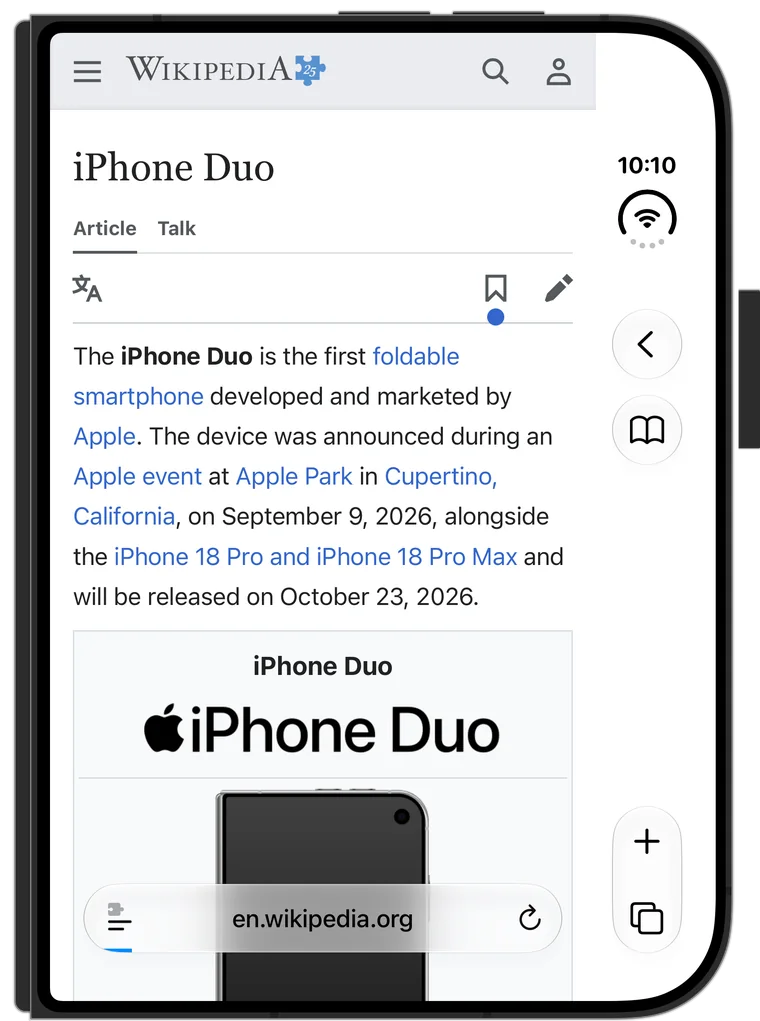
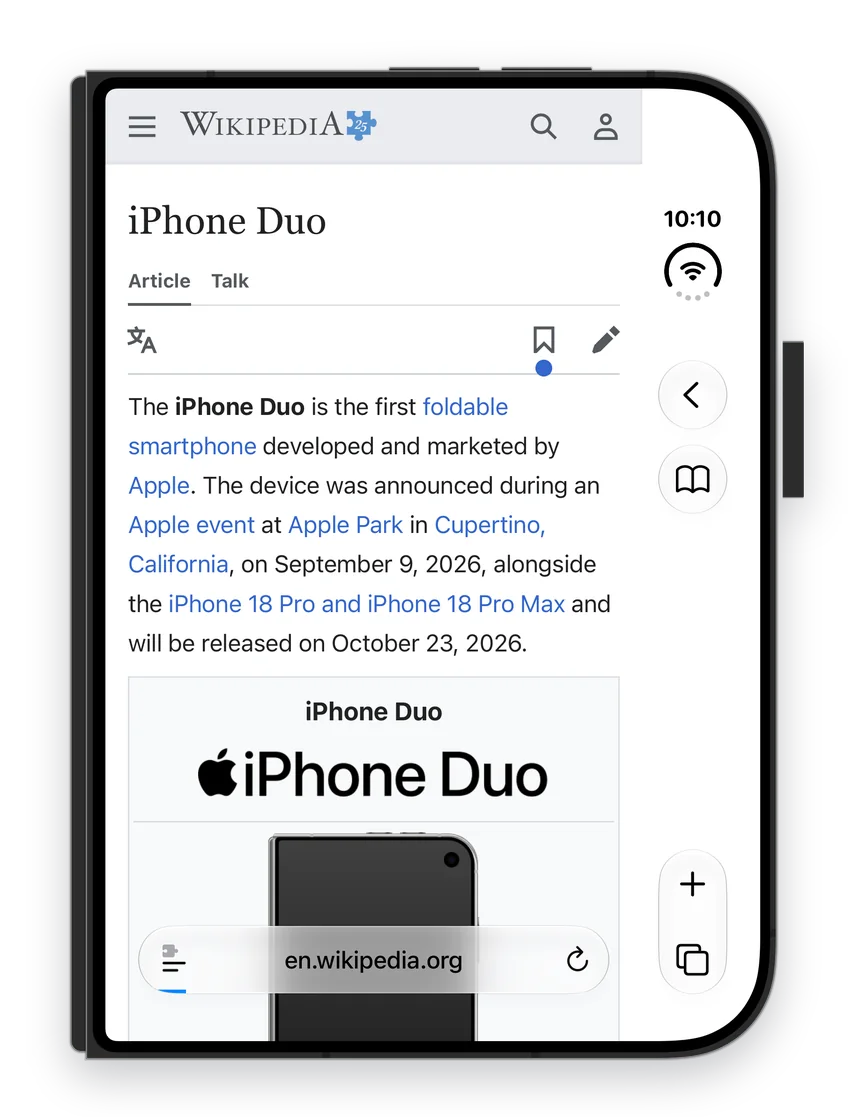
No grey box behind the phone (shadow baked into the images); setup steps by place: app, Settings, Safari; hero column can't overflow on phones

diff --git a/index.html b/index.html
@@ -9,7 +9,7 @@
 <meta name="theme-color" content="#10101c" media="(prefers-color-scheme: dark)">
 <link rel="icon" type="image/png" href="img/apple-touch-icon.png">
 <link rel="apple-touch-icon" href="img/apple-touch-icon.png">
-<link rel="stylesheet" href="style.css?v=b5582801">
+<link rel="stylesheet" href="style.css?v=6f3df7b0">
 </head>
 <body>
 <nav class="bar" aria-label="Widen">
@@ -48,8 +48,8 @@
       <div class="slides" tabindex="0" aria-label="Websites without and with Widen; swipe for more">
         <div class="slide" data-site="Wikipedia">
           <div class="flip-pics">
-            <img class="pic-before" src="img/before.webp" width="760" height="1021" alt="Wikipedia's iPhone Duo article in Safari on the closed Duo, without Widen: the page stops well short of Safari's buttons, leaving an empty band">
-            <img class="pic-after" src="img/after.webp" width="760" height="1021" alt="The same article with Widen in Pictures &amp; text mode: the article text and info box run the full width of the display">
+            <img class="pic-before" src="img/before.webp" width="860" height="1117" alt="Wikipedia's iPhone Duo article in Safari on the closed Duo, without Widen: the page stops well short of Safari's buttons, leaving an empty band">
+            <img class="pic-after" src="img/after.webp" width="860" height="1117" alt="The same article with Widen in Pictures &amp; text mode: the article text and info box run the full width of the display">
           </div>
           <p class="slide-cap"><b>Wikipedia</b>
             <span class="cap-before">The page stops short; the band by the buttons is empty.</span>
@@ -57,8 +57,8 @@
         </div>
         <div class="slide" data-site="The New York Times">
           <div class="flip-pics">
-            <img class="pic-before" src="img/nyt-before.webp" width="760" height="1021" loading="lazy" alt="An NYT article about the iPhone Duo on the closed Duo, without Widen: the lead photo stops short of Safari's buttons">
-            <img class="pic-after" src="img/nyt-after.webp" width="760" height="1021" loading="lazy" alt="The same article with Widen: the photo runs under Safari's buttons while the headline stays clear of them">
+            <img class="pic-before" src="img/nyt-before.webp" width="860" height="1117" loading="lazy" alt="An NYT article about the iPhone Duo on the closed Duo, without Widen: the lead photo stops short of Safari's buttons">
+            <img class="pic-after" src="img/nyt-after.webp" width="860" height="1117" loading="lazy" alt="The same article with Widen: the photo runs under Safari's buttons while the headline stays clear of them">
           </div>
           <p class="slide-cap"><b>The New York Times</b>
             <span class="cap-before">The photo stops short of the buttons.</span>
@@ -66,8 +66,8 @@
         </div>
         <div class="slide" data-site="Google Maps">
           <div class="flip-pics">
-            <img class="pic-before" src="img/maps-before.webp" width="760" height="1021" loading="lazy" alt="Google Maps satellite view of the Sydney Opera House on the closed Duo, without Widen: the map ends at Safari's buttons">
-            <img class="pic-after" src="img/maps-after.webp" width="760" height="1021" loading="lazy" alt="The same satellite view with Widen: the Opera House and harbour fill the whole display, under Safari's buttons">
+            <img class="pic-before" src="img/maps-before.webp" width="860" height="1117" loading="lazy" alt="Google Maps satellite view of the Sydney Opera House on the closed Duo, without Widen: the map ends at Safari's buttons">
+            <img class="pic-after" src="img/maps-after.webp" width="860" height="1117" loading="lazy" alt="The same satellite view with Widen: the Opera House and harbour fill the whole display, under Safari's buttons">
           </div>
           <p class="slide-cap"><b>Google Maps</b>
             <span class="cap-before">The map ends where the buttons begin.</span>
@@ -75,8 +75,8 @@
         </div>
         <div class="slide" data-site="US weather radar">
           <div class="flip-pics">
-            <img class="pic-before" src="img/radar-before.webp" width="760" height="1021" loading="lazy" alt="The US National Weather Service radar map on the closed Duo, without Widen: the map ends at Safari's buttons, cutting off the East Coast">
-            <img class="pic-after" src="img/radar-after.webp" width="760" height="1021" loading="lazy" alt="The same radar map with Widen: it fills the whole display under Safari's buttons, showing the East Coast">
+            <img class="pic-before" src="img/radar-before.webp" width="860" height="1117" loading="lazy" alt="The US National Weather Service radar map on the closed Duo, without Widen: the map ends at Safari's buttons, cutting off the East Coast">
+            <img class="pic-after" src="img/radar-after.webp" width="860" height="1117" loading="lazy" alt="The same radar map with Widen: it fills the whole display under Safari's buttons, showing the East Coast">
           </div>
           <p class="slide-cap"><b>US weather radar</b>
             <span class="cap-before">The map ends at the buttons; the East Coast is cut off.</span>
@@ -131,9 +131,9 @@
       <span class="kicker">Start</span>
       <h2>From download to wider pages</h2>
       <ol class="steps">
-        <li><h3>Turn <em>Widen</em> on in Safari</h3><p>Open the <em>Widen</em> app and tap <strong>Open Safari Settings</strong>. Switch <strong>Allow Extension</strong> on and set <strong>All Websites</strong> to <strong>Allow</strong>. Only you can switch on a Safari extension, so the app takes you straight to the right page.</p></li>
-        <li><h3>Start your free week</h3><p>Back in the app, start your free week. A tick shows against each step once it&rsquo;s done.</p></li>
-        <li><h3>Close your Duo and browse</h3><p>That&rsquo;s it. Every site opens in <strong>Pictures</strong> mode. To change that, or give one site its own setting, choose <strong>Widen</strong> from the menu in Safari&rsquo;s address bar.</p></li>
+        <li><h3>In the <em>Widen</em> app</h3><p>Open <em>Widen</em> and tap <strong>Open Safari Settings</strong>. It takes you straight to the right page in the Settings app, because only you can switch on a Safari extension.</p></li>
+        <li><h3>In Settings</h3><p>Switch <strong>Allow Extension</strong> on, then set <strong>All Websites</strong> to <strong>Allow</strong>. Back in the <em>Widen</em> app, start your free week; a tick shows against each step once it&rsquo;s done.</p></li>
+        <li><h3>In Safari</h3><p>Close your Duo and browse. Every site opens in <strong>Pictures</strong> mode. To change that, or give one site its own setting, choose <strong>Widen</strong> from the menu in Safari&rsquo;s address bar.</p></li>
       </ol>
     </div>
     <div class="deal">

diff --git a/style.css b/style.css
@@ -117,7 +117,7 @@ section.band { background: var(--band); }
 /* ---------- Top ---------- */
 .top { padding: 40px 0 28px; }
 html { scroll-padding-top: 64px; }
-.top .wrap { display: grid; grid-template-columns: 1.1fr 1fr; gap: 40px; align-items: center; }
+.top .wrap { display: grid; grid-template-columns: minmax(0, 1.1fr) minmax(0, 1fr); gap: 40px; align-items: center; }
 .brand { display: flex; align-items: center; gap: 16px; }
 .brand img { width: 76px; height: 76px; border-radius: 18px; box-shadow: 0 8px 24px rgba(20, 26, 46, .25); }
 .brand h1 { font-size: 3rem; font-weight: 700; letter-spacing: -0.035em; line-height: 1; }
@@ -156,20 +156,19 @@ html { scroll-padding-top: 64px; }
 .d-btn { fill: var(--d-btn); opacity: .8; }
 
 /* ---------- Before / after ---------- */
-.flip { max-width: 350px; margin: 0 auto; text-align: center; }
+.flip { max-width: 390px; min-width: 0; width: 100%; margin: 0 auto; text-align: center; }
 .slides {
   display: flex; overflow-x: auto; scroll-snap-type: x mandatory; scrollbar-width: none;
   -webkit-overflow-scrolling: touch; overscroll-behavior-x: contain;
 }
 .slides::-webkit-scrollbar { display: none; }
 .slides:focus-visible { outline: 2px solid var(--navy-b); outline-offset: 4px; border-radius: 12px; }
-.slide { flex: 0 0 100%; scroll-snap-align: center; padding: 4px 8px 18px; box-sizing: border-box; }
+.slide { flex: 0 0 100%; scroll-snap-align: center; padding: 0 0 18px; box-sizing: border-box; }
 /* Screenshots are framed in the iPhone Duo simulator's own device artwork
    (img/*.webp), so the page only stacks them. */
 .flip-pics { display: grid; }
 .flip-pics img {
   grid-area: 1 / 1; display: block; width: 100%; height: auto;
-  filter: drop-shadow(0 12px 22px rgba(20, 26, 46, .22));
   transition: opacity .45s ease;
 }
 .flip[data-state="after"] .pic-before, .flip[data-state="before"] .pic-after { opacity: 0; }
@@ -288,7 +287,7 @@ footer .legal { max-width: 640px; margin: 10px auto 0; font-size: .78rem; }
 
 /* ---------- Narrow screens ---------- */
 @media (max-width: 880px) {
-  .top .wrap { grid-template-columns: 1fr; }
+  .top .wrap { grid-template-columns: minmax(0, 1fr); }
   .closer, .start { grid-template-columns: 1fr; }
   .closer-pic { max-width: 300px; margin: 0 auto; }
 }

diff --git a/faq/index.html b/faq/index.html
@@ -6,7 +6,7 @@
 <title>FAQ — Widen for iPhone Duo</title>
 <meta name="description" content="Answers about Widen, the Safari extension for the iPhone Duo&#39;s outer display: phones, browsers, websites, privacy and the free week.">
 <link rel="icon" type="image/png" href="../img/apple-touch-icon.png">
-<link rel="stylesheet" href="../style.css?v=b5582801">
+<link rel="stylesheet" href="../style.css?v=6f3df7b0">
 </head>
 <body>
 <nav class="bar" aria-label="Widen">

diff --git a/privacy/index.html b/privacy/index.html
@@ -6,7 +6,7 @@
 <title>Privacy Policy — Widen for iPhone Duo</title>
 <meta name="description" content="Widen collects no data, has no analytics and makes no network connections of its own.">
 <link rel="icon" type="image/png" href="../img/apple-touch-icon.png">
-<link rel="stylesheet" href="../style.css?v=b5582801">
+<link rel="stylesheet" href="../style.css?v=6f3df7b0">
 </head>
 <body>
 <nav class="bar" aria-label="Widen">

diff --git a/support/index.html b/support/index.html
@@ -6,7 +6,7 @@
 <title>Support — Widen for iPhone Duo</title>
 <meta name="description" content="Help with Widen, the Safari extension for the iPhone Duo's outer display.">
 <link rel="icon" type="image/png" href="../img/apple-touch-icon.png">
-<link rel="stylesheet" href="../style.css?v=b5582801">
+<link rel="stylesheet" href="../style.css?v=6f3df7b0">
 </head>
 <body>
 <nav class="bar" aria-label="Widen">

diff --git a/tools/release-1.0.1.py b/tools/release-1.0.1.py
@@ -14,7 +14,7 @@ def edit(f, pairs):
     p.write_text(t)
 
 edit('index.html', [
- (r'\s*<li><h3>Start your free week</h3>.*?</li>', ''),
+ (r' Back in the <em>Widen</em> app, start your free week; a tick shows against each step once it&rsquo;s done\.', ''),
  (r'<p class="deal-big">.*?</p>\n(\s*)<p>.*?</p>',
   '<p class="deal-big">Free for 7 days.<br>Then US$3.99 for lifetime access.</p>\n'
   '      <p>Nothing to start: just browse. Your free week begins the first time <em>Widen</em> widens a page, '
